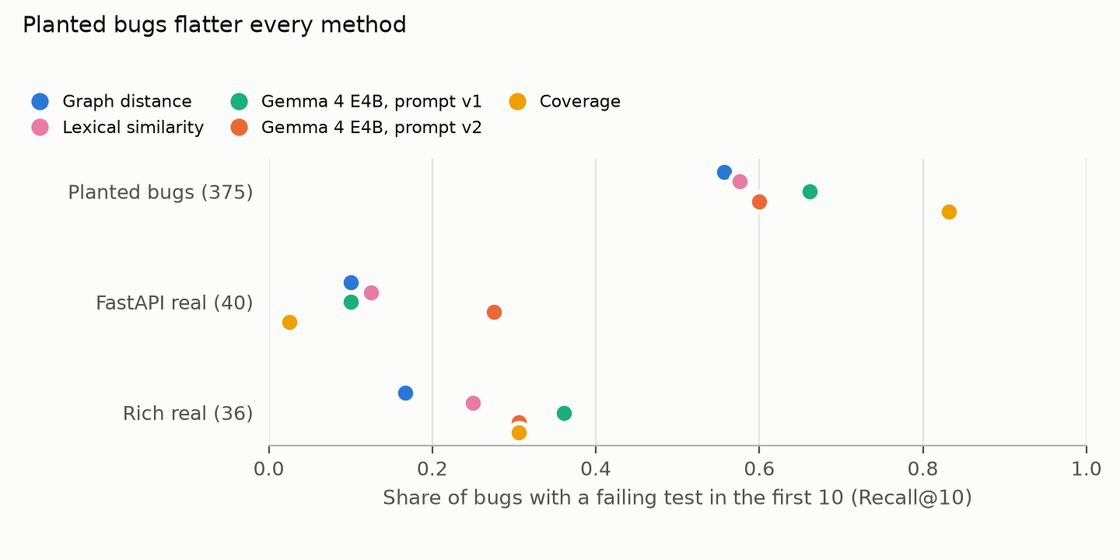
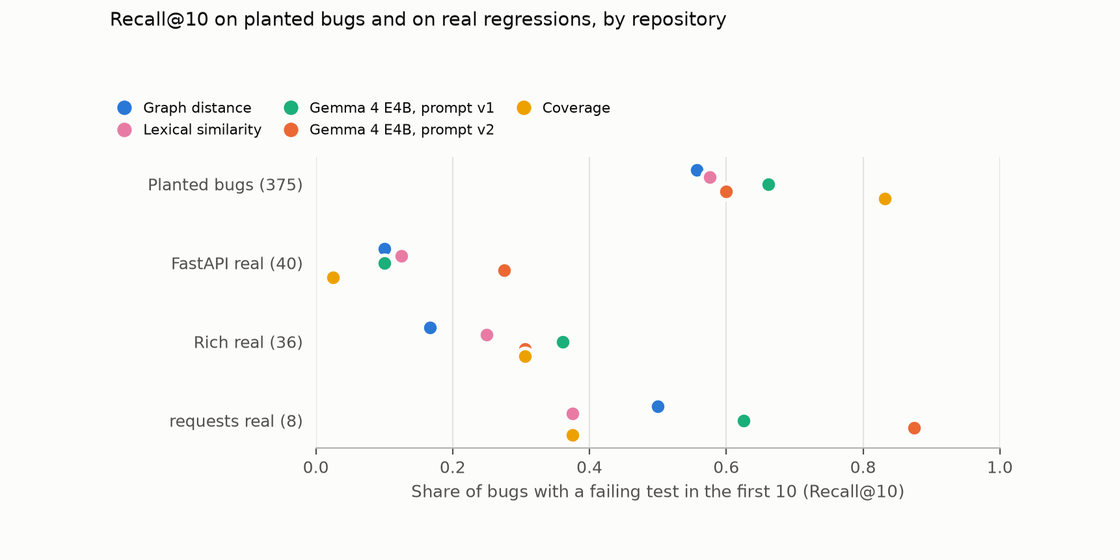
README: 84 real regressions; refresh resource card

diff --git a/README.md b/README.md
@@ -4,7 +4,7 @@ After a code change, a small Gemma 4 model running on a laptop reads the code gr
 
 The code graph alone misses tests that reach the changed code through inheritance, decorators or Python syntax (`in` calls `__contains__`, a `for` loop calls `__iter__`). A small local model can read the code and suggest those tests, but it costs seconds per change, so we also measure the suite runtime at which it pays off.
 
-**Result.** On 375 planted one-operator bugs in five Python repositories, ordering tests by code-graph distance puts a failing test in the first 10 for 56% of bugs; Gemma 4 E4B re-ranking raises that to 66% (+10.4 points, 95% interval +6.7 to +14.1) and E2B to 61%. On 76 real regressions replayed from the competition's FastAPI and Rich tasks every method does far worse: the pre-registered prompt adds nothing on FastAPI, E4B gains 19 points on held-out Rich, and a second prompt designed on FastAPI did not pass its pre-registered held-out test. Lexical similarity is a strong cheap baseline. Started in parallel with the graph-distance order, the model never slows the loop. "Coverage" is an upper bound: it needs a recorded run of every test.
+**Result.** On 375 planted one-operator bugs in five Python repositories, ordering tests by code-graph distance puts a failing test in the first 10 for 56% of bugs; Gemma 4 E4B re-ranking raises that to 66% (+10.4 points, 95% interval +6.7 to +14.1). On 84 real regressions replayed from the competition's FastAPI, Rich and requests tasks every method does far worse, but the pre-registered E4B re-ranker still adds 9.5 points over graph distance pooled (+3.6 to +15.5), with no gain on FastAPI and clear gains on the other two. Started in parallel with the graph-distance order, the model never slows the loop on average. "Coverage" is an upper bound on planted bugs only: it needs a recorded run of every test.
 
 ![Bugs caught within the first k tests](paper/figs/fig1_recall_at_k.png)
 
@@ -19,6 +19,8 @@ pip install networkx matplotlib
 python rts/analyze.py data cachetools toolz humanize python-sortedcontainers fastapi
 python rts/analyze_real.py data/real FastAPI
 python rts/analyze_real.py data/real_rich Rich
+python rts/analyze_real.py data/real_requests requests
+python rts/analyze_real_pooled.py data
 python rts/analyze_v2_planted.py data
 python rts/figures.py data paper/figs
 ```
